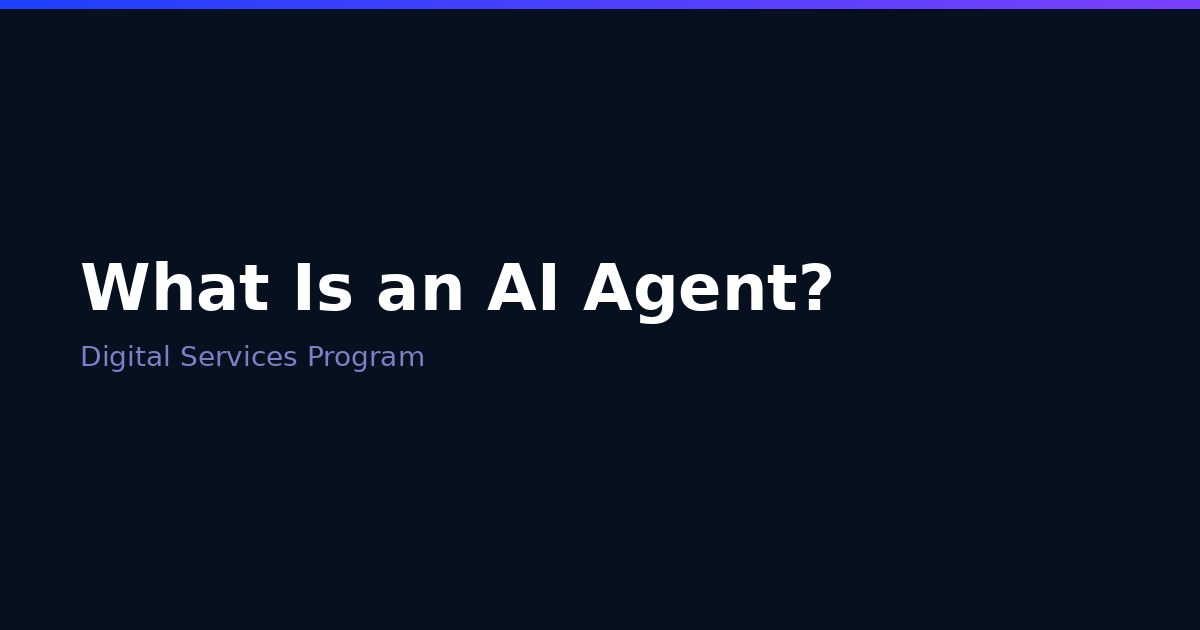
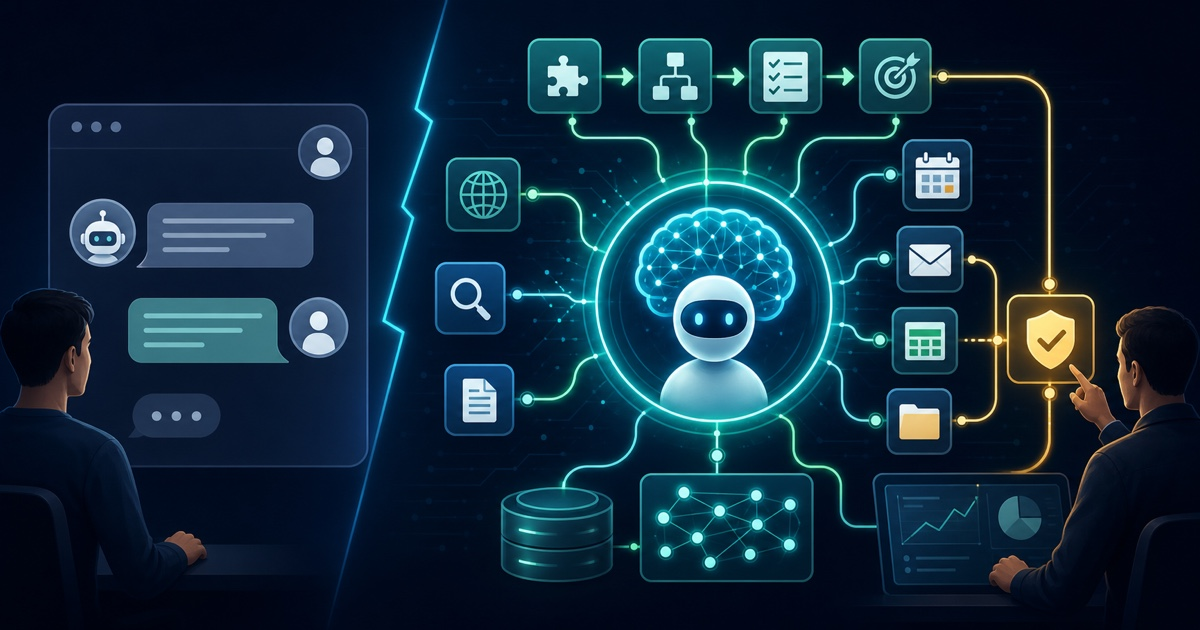
Integrate first three blog images

diff --git a/src/components/LatestPosts.tsx b/src/components/LatestPosts.tsx
@@ -1,3 +1,4 @@
+import Image from 'next/image'
 import Link from 'next/link'
 import { getAllPosts } from '@/lib/posts'
 
@@ -54,6 +55,16 @@ export default function LatestPosts() {
                 background: 'rgba(255,255,255,0.03)',
               }}
             >
+              <div style={{ marginBottom: '0.8rem', overflow: 'hidden', borderRadius: 12 }}>
+                <Image
+                  src={post.image}
+                  alt={post.title}
+                  width={600}
+                  height={315}
+                  sizes="(max-width: 700px) 100vw, 360px"
+                  style={{ width: '100%', height: 'auto', display: 'block' }}
+                />
+              </div>
               <p
                 style={{
                   fontFamily: 'var(--font-mono)',

diff --git a/src/app/blog/[slug]/page.tsx b/src/app/blog/[slug]/page.tsx
@@ -81,6 +81,8 @@ export default async function BlogPost(
     year: 'numeric', month: 'long', day: 'numeric',
   })
 
+  const heroImage = post.image || '/blog/what-is-an-ai-agent.jpg'
+
   return (
     <article className="dsp-post">
       <script
@@ -102,7 +104,7 @@ export default async function BlogPost(
 
         <div className="dsp-post__hero">
           <Image
-            src={post.image}
+            src={heroImage}
             alt={post.title}
             width={1200}
             height={630}